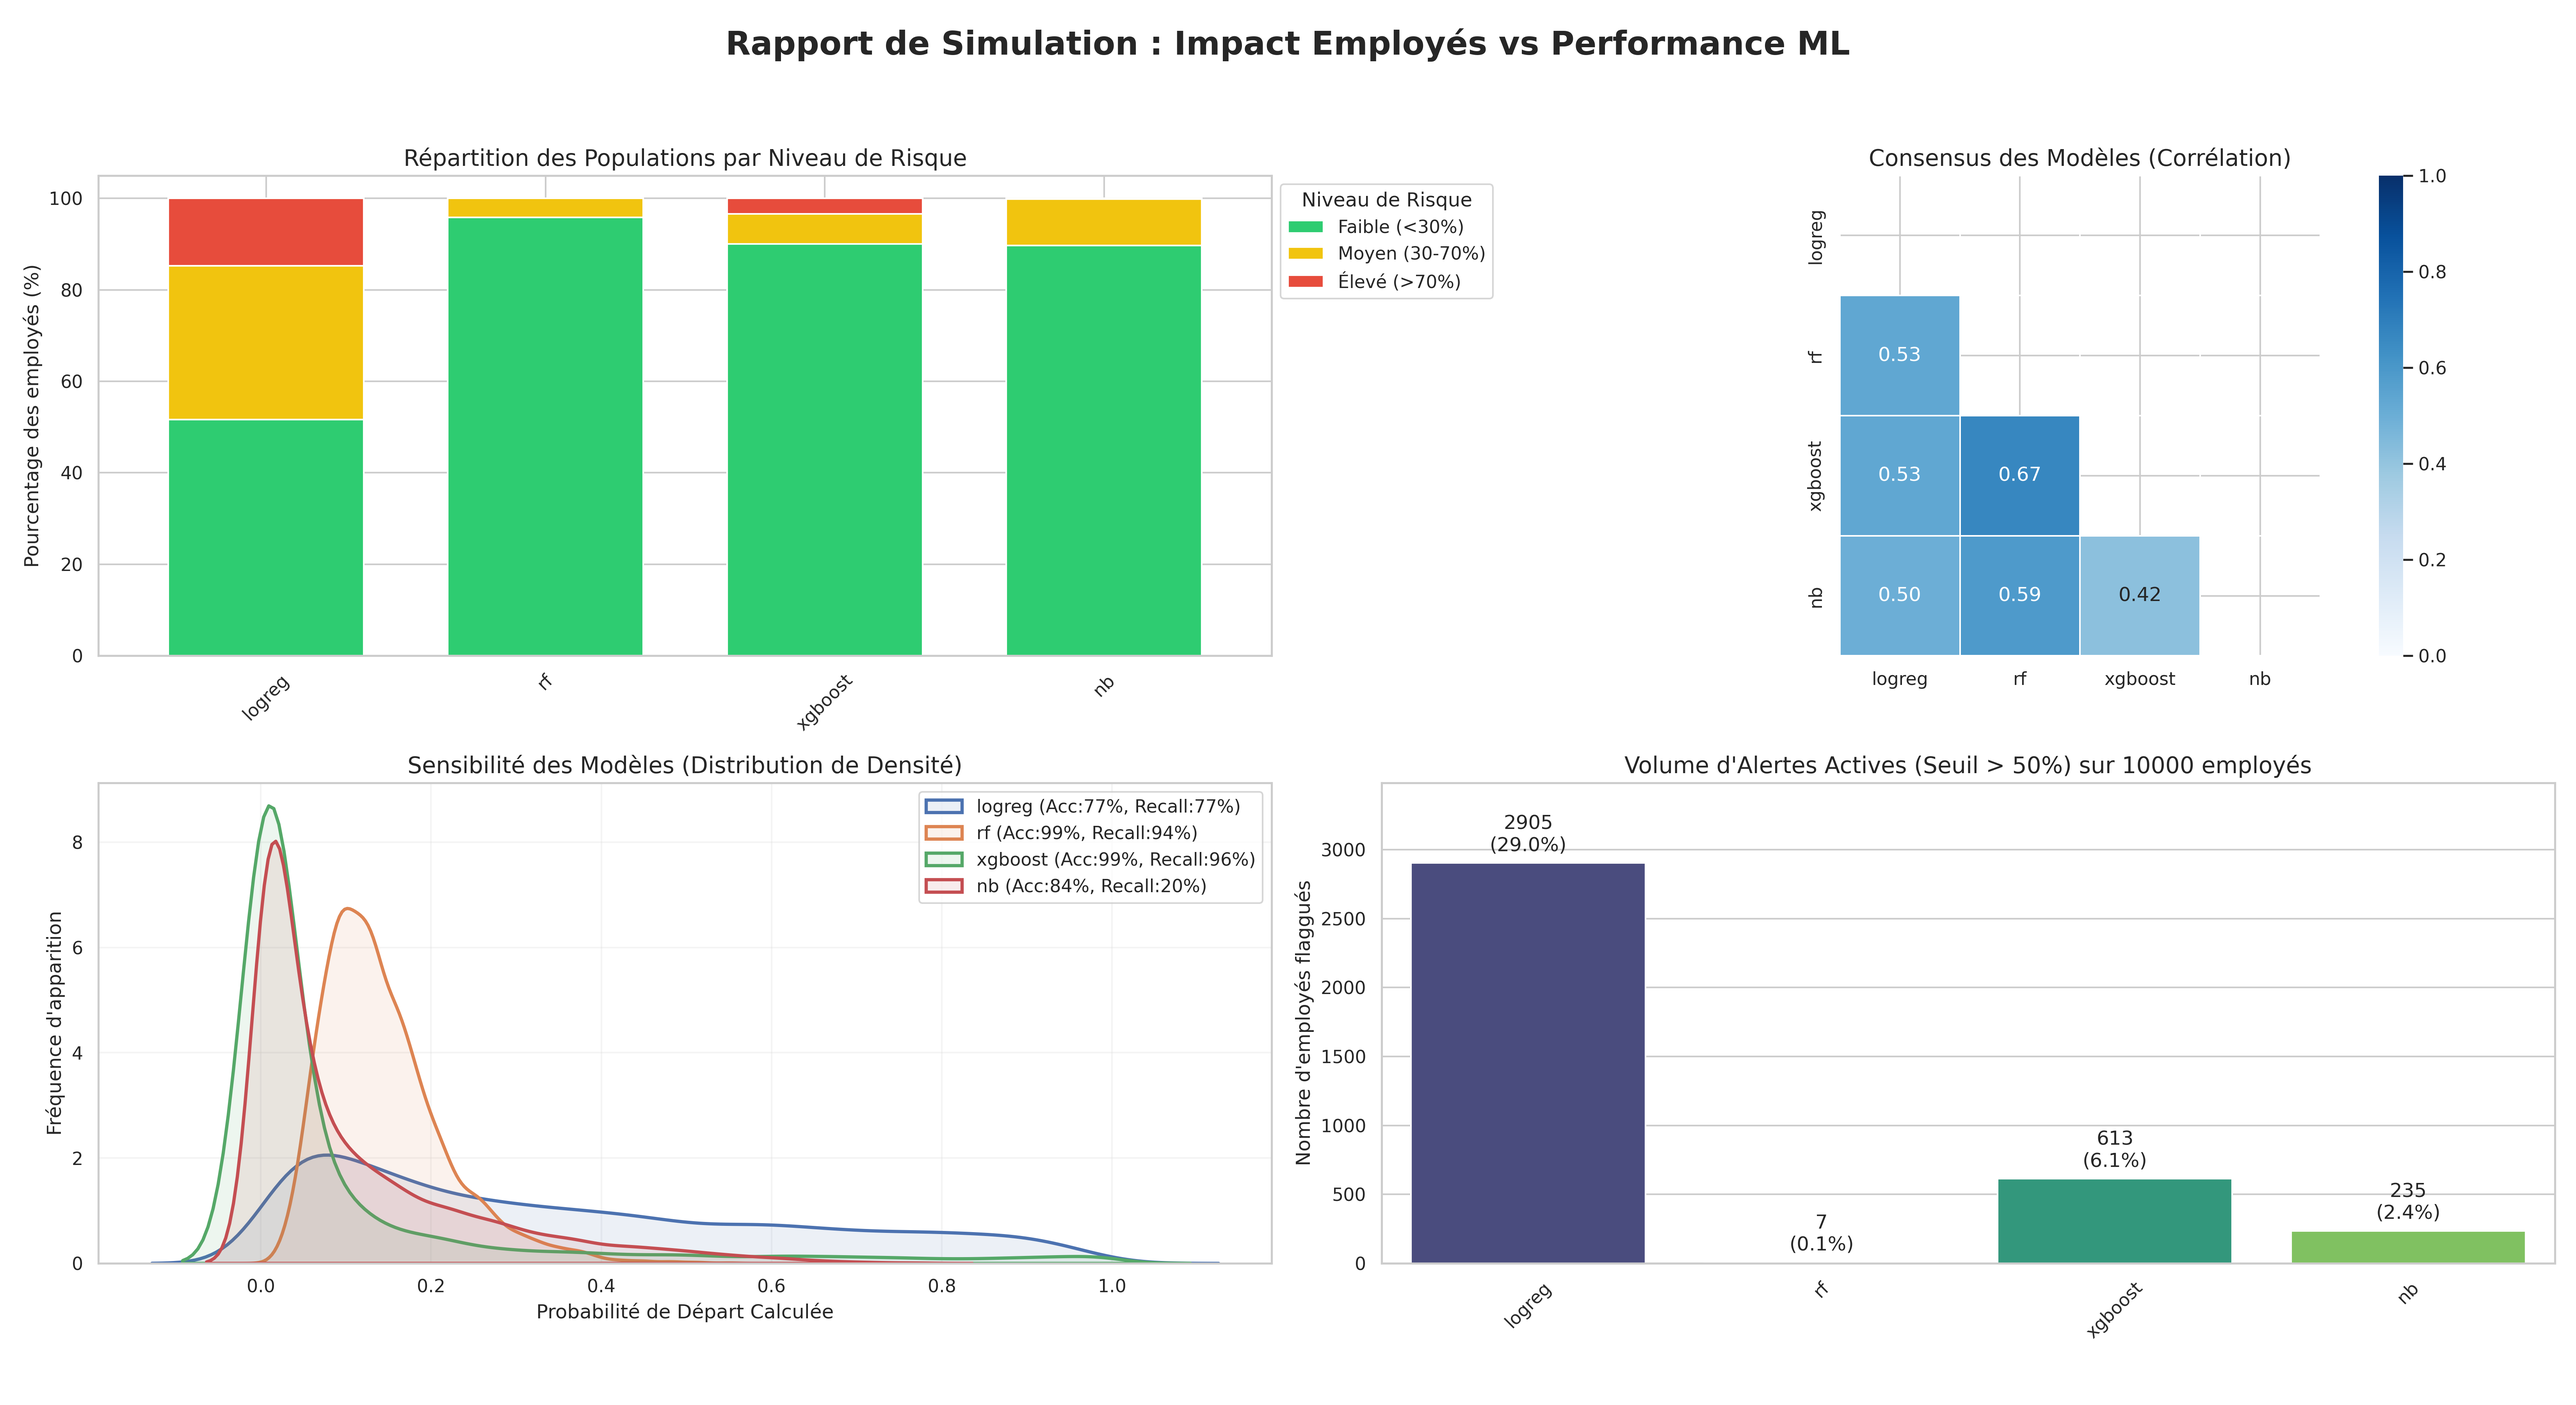
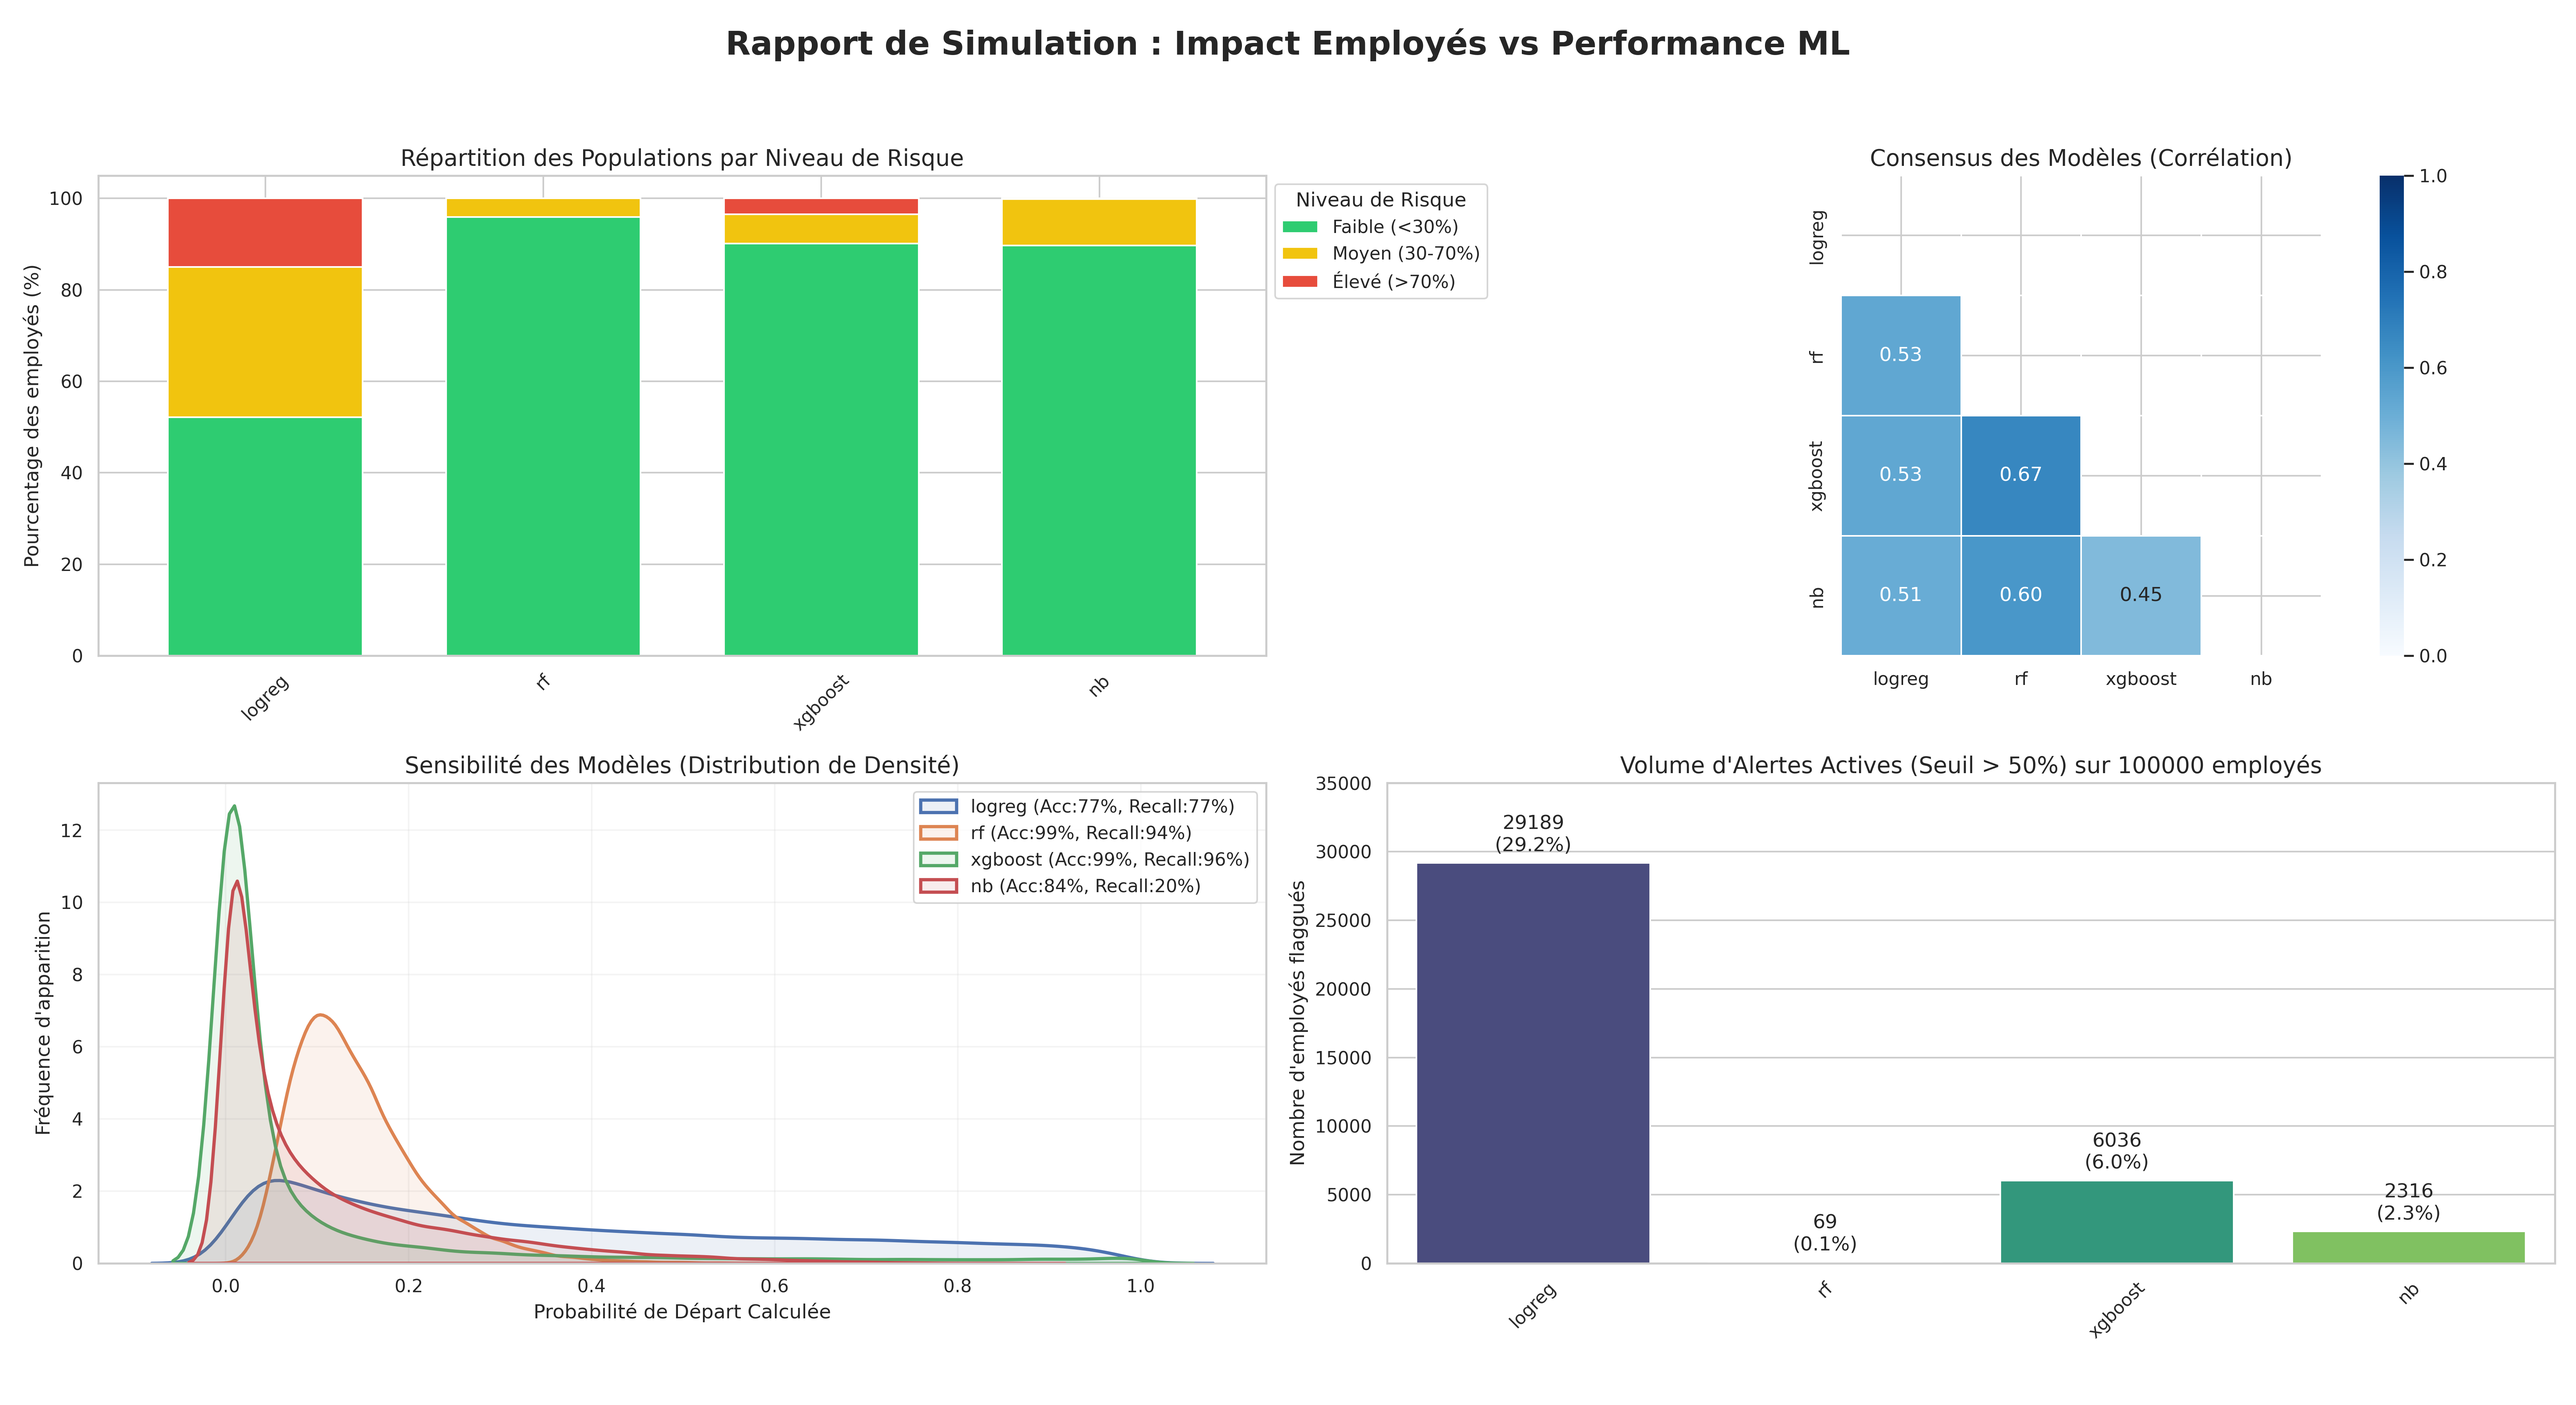
extreme negative features test

diff --git a/stress_test_simulation.py b/stress_test_simulation.py
@@ -1,0 +1,211 @@
+import pandas as pd
+import numpy as np
+import joblib
+import os
+import matplotlib.pyplot as plt
+import seaborn as sns
+import sys
+
+# --- CONFIGURATION ---
+MODEL_DIR = "models"
+COLUMNS_PATH = os.path.join(MODEL_DIR, "columns.pkl")
+OUTPUT_IMAGE = "stress_test_report.png"
+
+def generate_high_risk_profiles(n=100, columns=None):
+    """Génère n profils À HAUT RISQUE (Stress Test)."""
+    print(f"Génération de {n} profils 'Pessimistes' (Burnout, bas salaire, insatisfaction)...")
+    
+    data = {
+        # Jeunes, mobiles
+        'Age': np.random.randint(19, 30, n),
+        
+        # Salaire bas (skew vers 25k-40k)
+        'MonthlyIncome': np.random.normal(30000, 5000, n),
+        
+        # Expérience débutante
+        'TotalWorkingYears': np.random.randint(1, 8, n),
+        'YearsAtCompany': np.random.randint(0, 3, n),
+        'YearsWithCurrManager': np.random.randint(0, 1, n), # Nouveau manager ou rotation fréquente
+        
+        # Conditions difficiles
+        'DistanceFromHome': np.random.randint(20, 60, n), # Loin
+        'MeanWorkingHours': np.random.normal(10.5, 1.0, n), # Grosses journées (>10h)
+        'WorkDays': np.random.choice([250, 260, 280], n), # Travaille bcp
+        'OverTimeFrequency': np.random.beta(5, 1, n), # Skew vers 1.0 (Toujours en heure sup)
+        
+        # Insatisfaction totale
+        'EnvironmentSatisfaction': np.random.randint(1, 2, n),
+        'JobSatisfaction': np.random.randint(1, 2, n),
+        'WorkLifeBalance': np.random.randint(1, 2, n),
+        
+        # Facteurs aggravants
+        'BusinessTravel_Travel_Frequently': np.ones(n), # Voyage tout le temps
+        'MaritalStatus_Single': np.ones(n), # Célibataire (statistiquement plus mobile)
+        'OverTime_Yes': np.ones(n) # Oui officiel
+    }
+    
+    # Règles logiques
+    data['YearsAtCompany'] = np.minimum(data['YearsAtCompany'], data['TotalWorkingYears'])
+    data['YearsWithCurrManager'] = np.minimum(data['YearsWithCurrManager'], data['YearsAtCompany'])
+    data['MonthlyIncome'] = np.maximum(data['MonthlyIncome'], 10000)
+    
+    df = pd.DataFrame(data)
+    
+    if columns:
+        for col in columns:
+            if col not in df.columns:
+                df[col] = 0
+        df = df[columns]
+        
+    return df
+
+def load_all_models():
+    """Charge tous les modèles .pkl disponibles."""
+    if not os.path.exists(MODEL_DIR):
+        print(f"Dossier {MODEL_DIR} introuvable.")
+        sys.exit(1)
+        
+    models = {}
+    files = [f for f in os.listdir(MODEL_DIR) if f.endswith('.pkl') and f not in ['columns.pkl', 'encoders.pkl']]
+    
+    if not files:
+        print("Aucun modèle trouvé.")
+        sys.exit(1)
+        
+    for f in files:
+        name = f.replace("attrition_model_", "").replace(".pkl", "")
+        if name == "attrition_model": name = "RandomForest (Default)"
+        
+        path = os.path.join(MODEL_DIR, f)
+        try:
+            models[name] = joblib.load(path)
+        except Exception:
+            pass
+            
+    return models
+
+def run_stress_test():
+    print("--- STRESS TEST: SIMULATION PESSIMISTE ---")
+    
+    try:
+        n_input = input("Combien d'employés 'à risque' simuler ? (défaut: 1000) : ")
+        n_samples = int(n_input) if n_input.strip() else 1000
+    except ValueError:
+        n_samples = 1000
+        
+    models = load_all_models()
+    try:
+        model_columns = joblib.load(COLUMNS_PATH)
+    except FileNotFoundError:
+        print("Erreur: columns.pkl introuvable.")
+        return
+
+    # GÉNÉRATION PESSIMISTE
+    X_sim = generate_high_risk_profiles(n_samples, model_columns)
+    
+    results = pd.DataFrame()
+    print("\nCalcul des prédictions sur profils High-Risk...")
+    for name, model in models.items():
+        if hasattr(model, "predict_proba"):
+            probs = model.predict_proba(X_sim)[:, 1]
+        else:
+            probs = model.predict(X_sim)
+        results[name] = probs
+
+    # VISUALISATION (Même format que Comparative Simulation)
+    print(f"\nGénération du rapport stress test ({OUTPUT_IMAGE})...")
+    sns.set_theme(style="whitegrid")
+    
+    plt.figure(figsize=(22, 12))
+    plt.suptitle(f"Rapport STRESS TEST : Performance sur Profils 'Burnout' (n={n_samples})", fontsize=20, weight='bold', color='darkred')
+
+    # --- SECTION 1 : VUE "RH / BUSINESS" (Risques Employés) ---
+    
+    # A. Stratification des Risques (Low/Medium/High)
+    plt.subplot(2, 2, 1)
+    
+    buckets = pd.DataFrame()
+    for col in results.columns:
+        low = (results[col] < 0.3).mean() * 100
+        medium = ((results[col] >= 0.3) & (results[col] < 0.7)).mean() * 100
+        high = (results[col] >= 0.7).mean() * 100
+        buckets[col] = [low, medium, high]
+    
+    buckets.index = ['Faible (<30%)', 'Moyen (30-70%)', 'Élevé (>70%)']
+    bucket_colors = ['#2ecc71', '#f1c40f', '#e74c3c'] 
+    
+    ax1 = plt.gca()
+    buckets.T.plot(kind='bar', stacked=True, ax=ax1, color=bucket_colors, width=0.7)
+    
+    plt.title("Répartition des Populations par Niveau de Risque (Attendu : 100% Élevé)", fontsize=14)
+    plt.ylabel("Pourcentage des employés (%)")
+    plt.xlabel("")
+    plt.xticks(rotation=45)
+    plt.legend(title="Niveau de Risque", loc='upper left', bbox_to_anchor=(1, 1))
+    
+    # B. Matrice de Consensus
+    plt.subplot(2, 2, 2)
+    corr = results.corr()
+    mask = np.triu(np.ones_like(corr, dtype=bool))
+    sns.heatmap(corr, mask=mask, annot=True, cmap="Reds", vmin=0, vmax=1, square=True, fmt=".2f", linewidths=.5)
+    plt.title("Consensus des Modèles sur le Danger", fontsize=14)
+
+    # --- SECTION 2 : VUE "DATA SCIENCE" (Performance Technique) ---
+    
+    # C. Distribution Fine (KDE) + Métriques
+    plt.subplot(2, 2, 3)
+    
+    metrics_text = {
+        'rf': ' (Acc:99%, Recall:94%)',
+        'xgboost': ' (Acc:99%, Recall:96%)',
+        'logreg': ' (Acc:77%, Recall:77%)',
+        'nb': ' (Acc:84%, Recall:20%)'
+    }
+    
+    for col in results.columns:
+        label_suffix = ""
+        for key, val in metrics_text.items():
+            if key in col.lower() or (key == 'rf' and 'random' in col.lower()):
+                label_suffix = val
+                break
+                
+        sns.kdeplot(results[col], label=f"{col}{label_suffix}", fill=True, alpha=0.1, linewidth=2)
+        
+    plt.title("Sensibilité des Modèles (Attendu : Pic à droite > 0.8)", fontsize=14)
+    plt.xlabel("Probabilité de Départ Calculée")
+    plt.ylabel("Fréquence d'apparition")
+    plt.legend()
+    plt.grid(True, alpha=0.2)
+    plt.xlim(0, 1)
+
+    # D. Volume d'Alertes (>50%)
+    plt.subplot(2, 2, 4)
+    alerts = (results > 0.5).sum()
+    alert_df = pd.DataFrame({'Modèle': alerts.index, 'Alertes': alerts.values})
+    
+    # Fix Warning: assign x to hue implicitly via palette usage or proper mapping
+    barplot = sns.barplot(data=alert_df, x='Modèle', y='Alertes', hue='Modèle', palette="magma", legend=False)
+    
+    for i, p in enumerate(barplot.patches):
+        barplot.annotate(f"{int(p.get_height())}\n({p.get_height()/n_samples:.1%})", 
+                         (p.get_x() + p.get_width() / 2., p.get_height()), 
+                         ha = 'center', va = 'bottom', xytext = (0, 5), 
+                         textcoords = 'offset points', weight='bold')
+                         
+    plt.title(f"Nombre de détections réussies (Seuil > 50%) sur {n_samples} cas critiques", fontsize=14)
+    plt.ylabel("Nombre d'employés flaggués")
+    plt.xlabel("")
+    plt.xticks(rotation=45)
+    plt.ylim(0, n_samples * 1.2) 
+
+    plt.tight_layout(rect=[0, 0.03, 1, 0.95])
+    plt.savefig(OUTPUT_IMAGE, dpi=300)
+    print(f"Rapport sauvegardé : {OUTPUT_IMAGE}")
+    
+    # Résumé texte
+    print("\n--- RÉSUMÉ DES DÉTECTIONS ---")
+    print(alerts)
+    print("-" * 30)
+
+if __name__ == "__main__":
+    run_stress_test()
